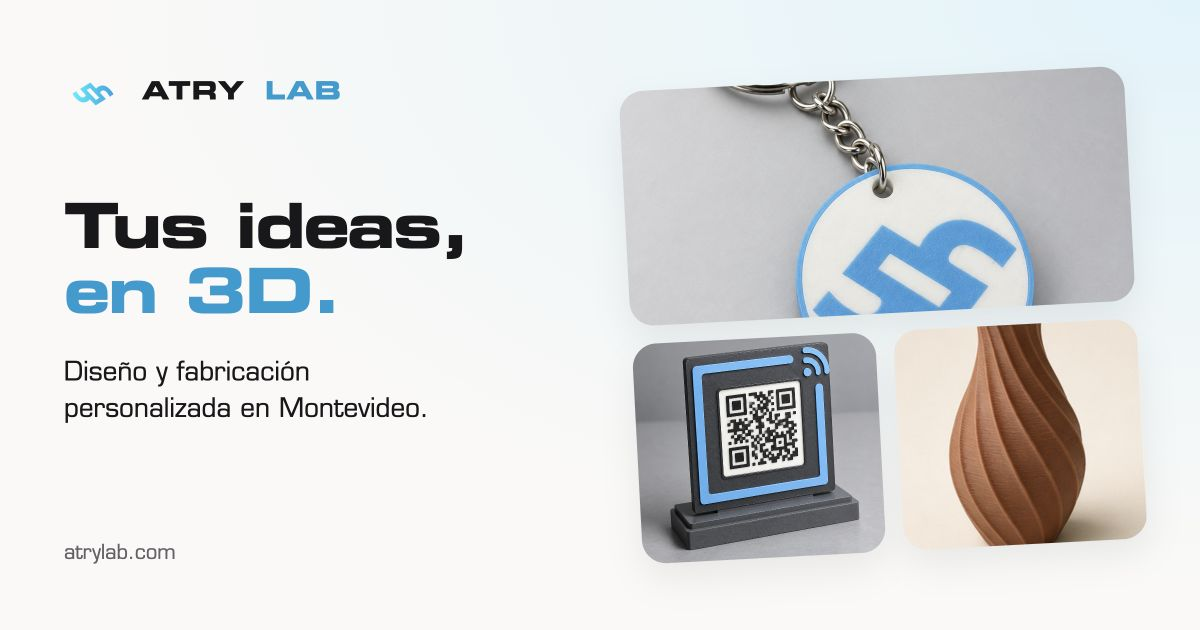
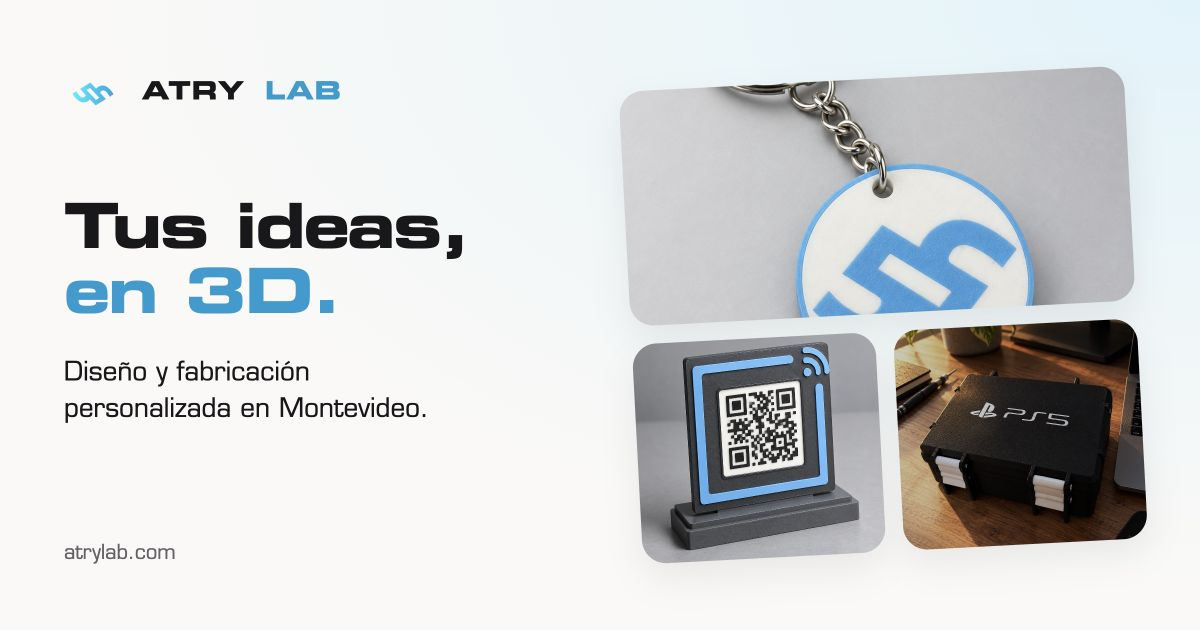
fix: use the PS5 controller case in the sharing card

Changed region(s): [[0.74, 0.4825, 0.9558, 0.8746]]

diff --git a/index.html b/index.html
@@ -15,7 +15,7 @@
   <link rel="canonical" href="https://atrylab.com/">
   <meta property="og:type" content="website"><meta property="og:locale" content="es_UY"><meta property="og:site_name" content="ATRY LAB">
   <meta property="og:title" content="ATRY LAB — Tus ideas, en 3D"><meta property="og:description" content="Diseño y fabricación 3D personalizada en Montevideo. Piezas únicas, productos para tu marca y soluciones a medida."><meta property="og:url" content="https://atrylab.com/">
-  <meta property="og:image" content="https://atrylab.com/recursos/atrylab-social-v2.jpg"><meta property="og:image:secure_url" content="https://atrylab.com/recursos/atrylab-social-v2.jpg"><meta property="og:image:type" content="image/jpeg"><meta property="og:image:width" content="1200"><meta property="og:image:height" content="630"><meta property="og:image:alt" content="ATRY LAB: tus ideas en 3D, con llavero personalizado, porta QR y jarrón.">
+  <meta property="og:image" content="https://atrylab.com/recursos/atrylab-social-v2.jpg"><meta property="og:image:secure_url" content="https://atrylab.com/recursos/atrylab-social-v2.jpg"><meta property="og:image:type" content="image/jpeg"><meta property="og:image:width" content="1200"><meta property="og:image:height" content="630"><meta property="og:image:alt" content="ATRY LAB: tus ideas en 3D, con llavero personalizado, porta QR y estuche para control PS5.">
   <meta name="twitter:card" content="summary_large_image"><meta name="twitter:title" content="ATRY LAB — Tus ideas, en 3D"><meta name="twitter:description" content="Diseño y fabricación 3D personalizada en Montevideo. Piezas únicas, productos para tu marca y soluciones a medida."><meta name="twitter:image" content="https://atrylab.com/recursos/atrylab-social-v2.jpg"><meta name="twitter:image:alt" content="ATRY LAB — Tus ideas, en 3D">
 </head>
 <body>
